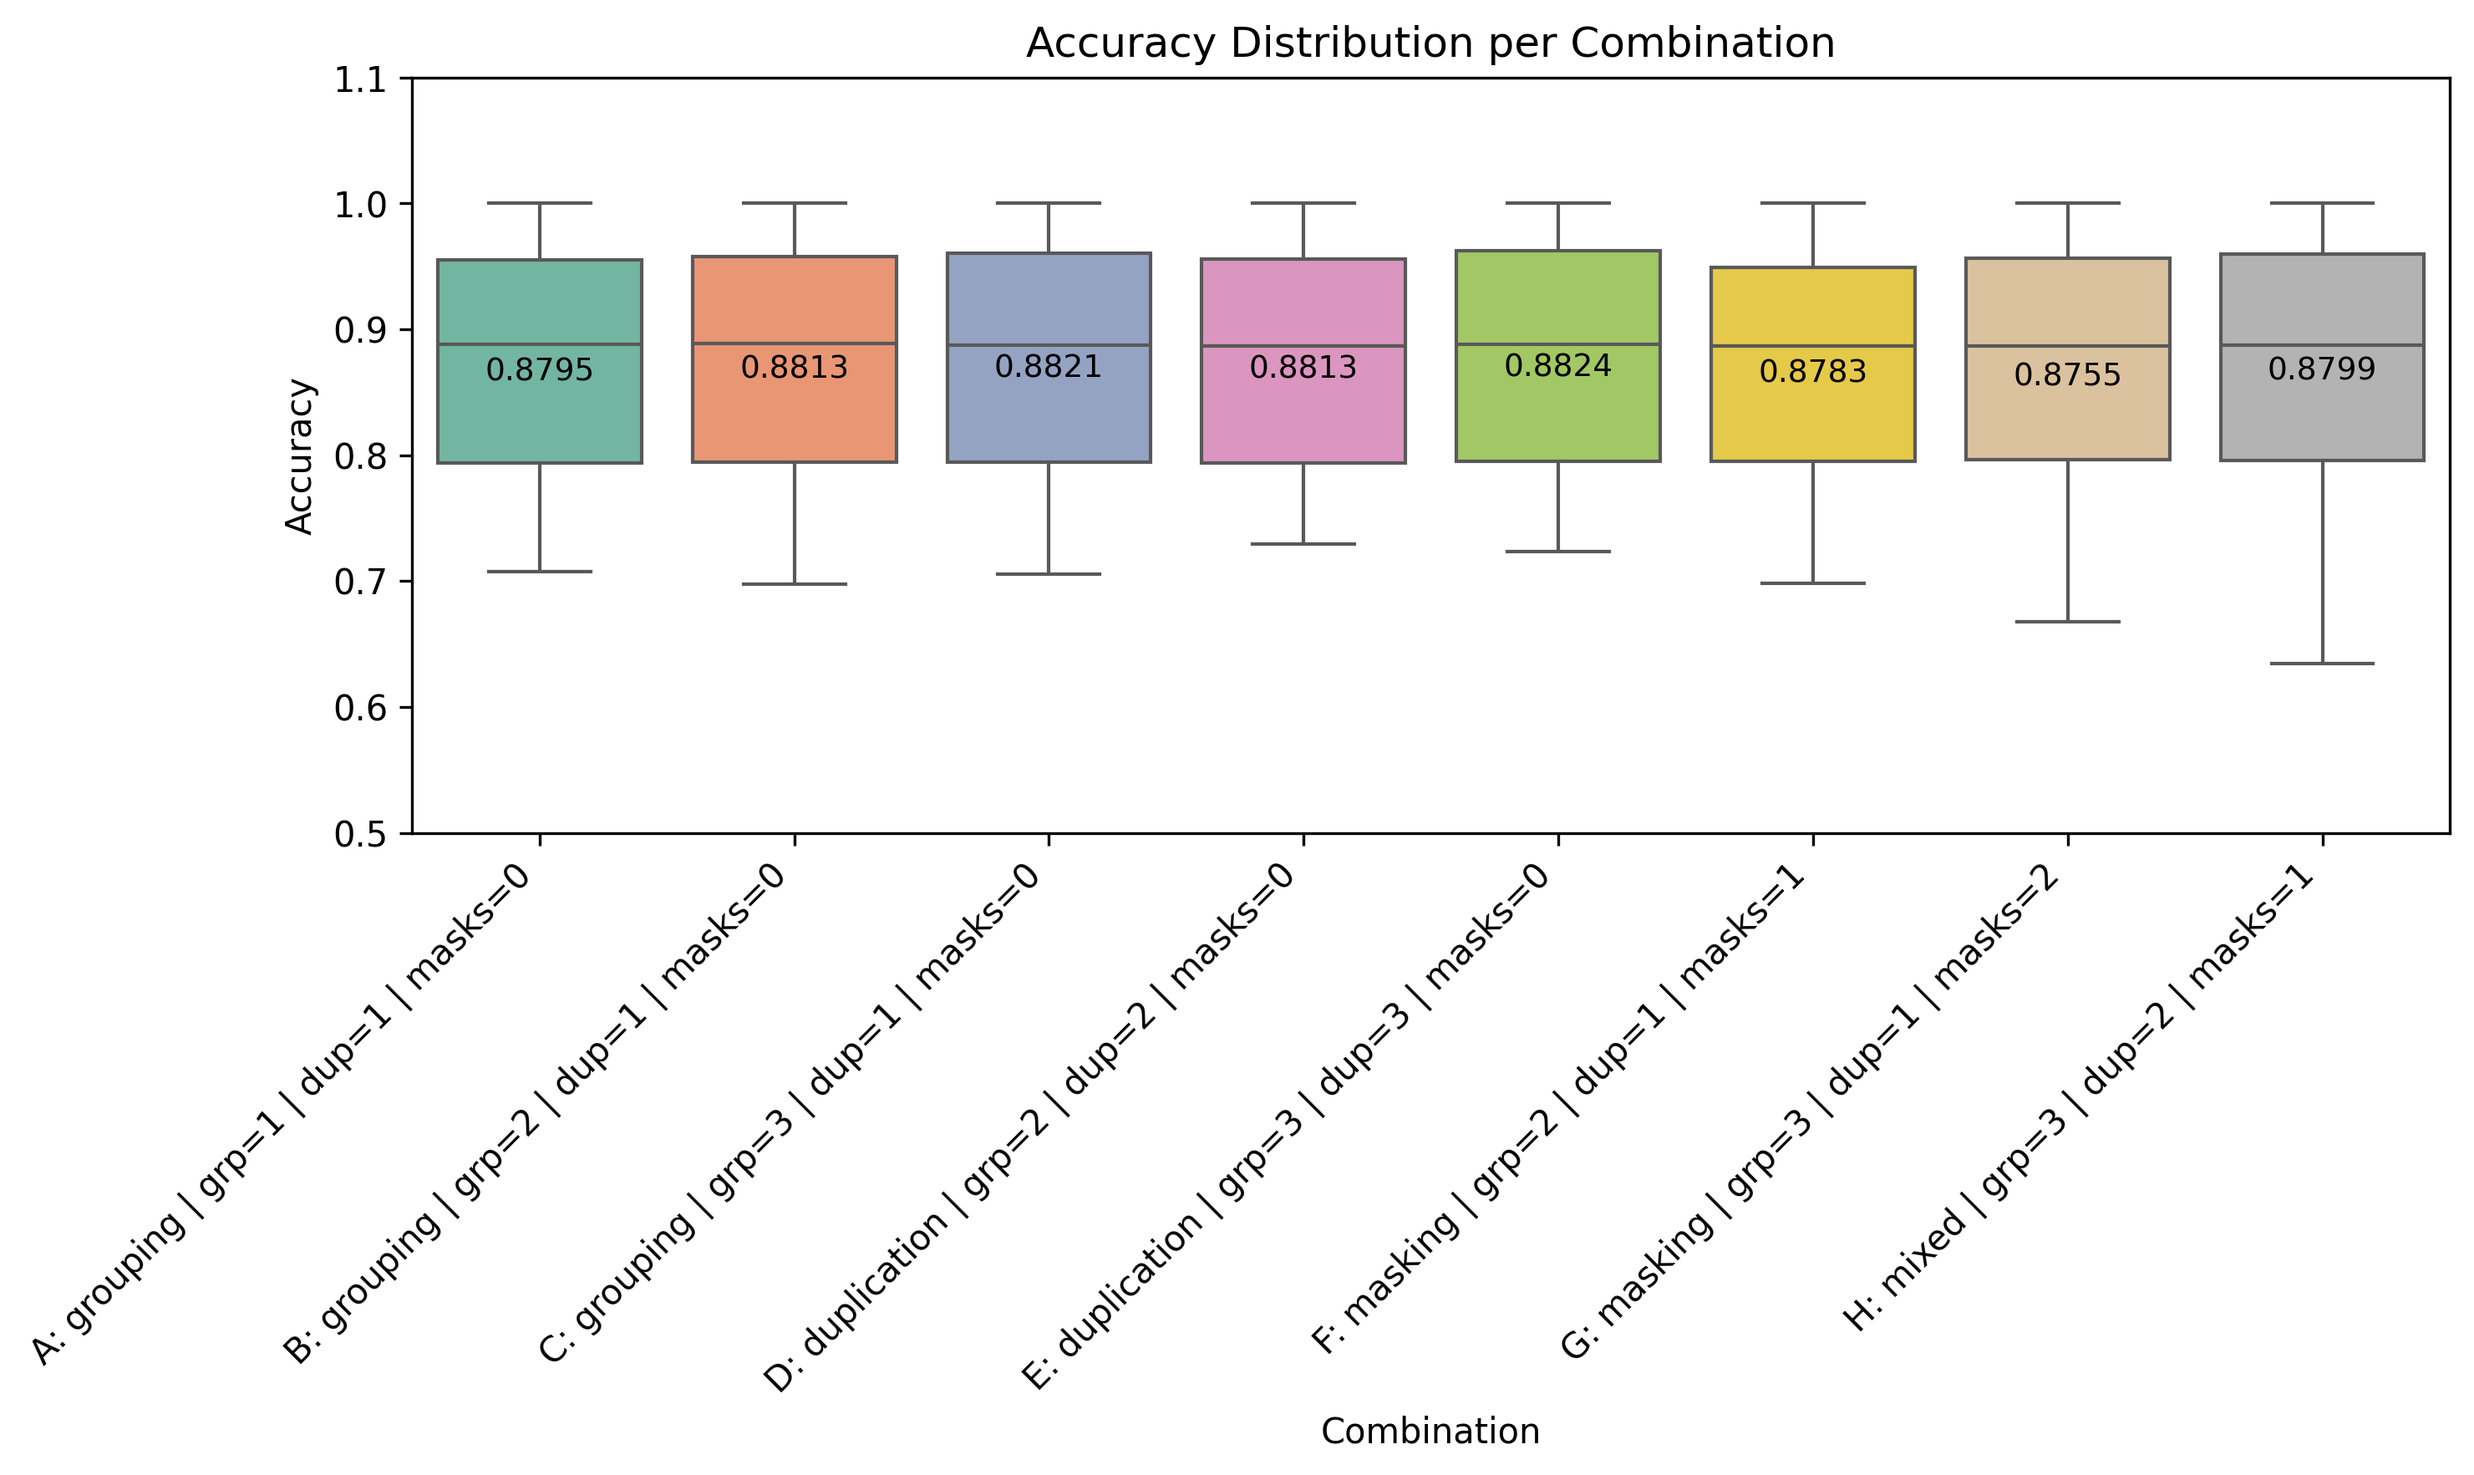
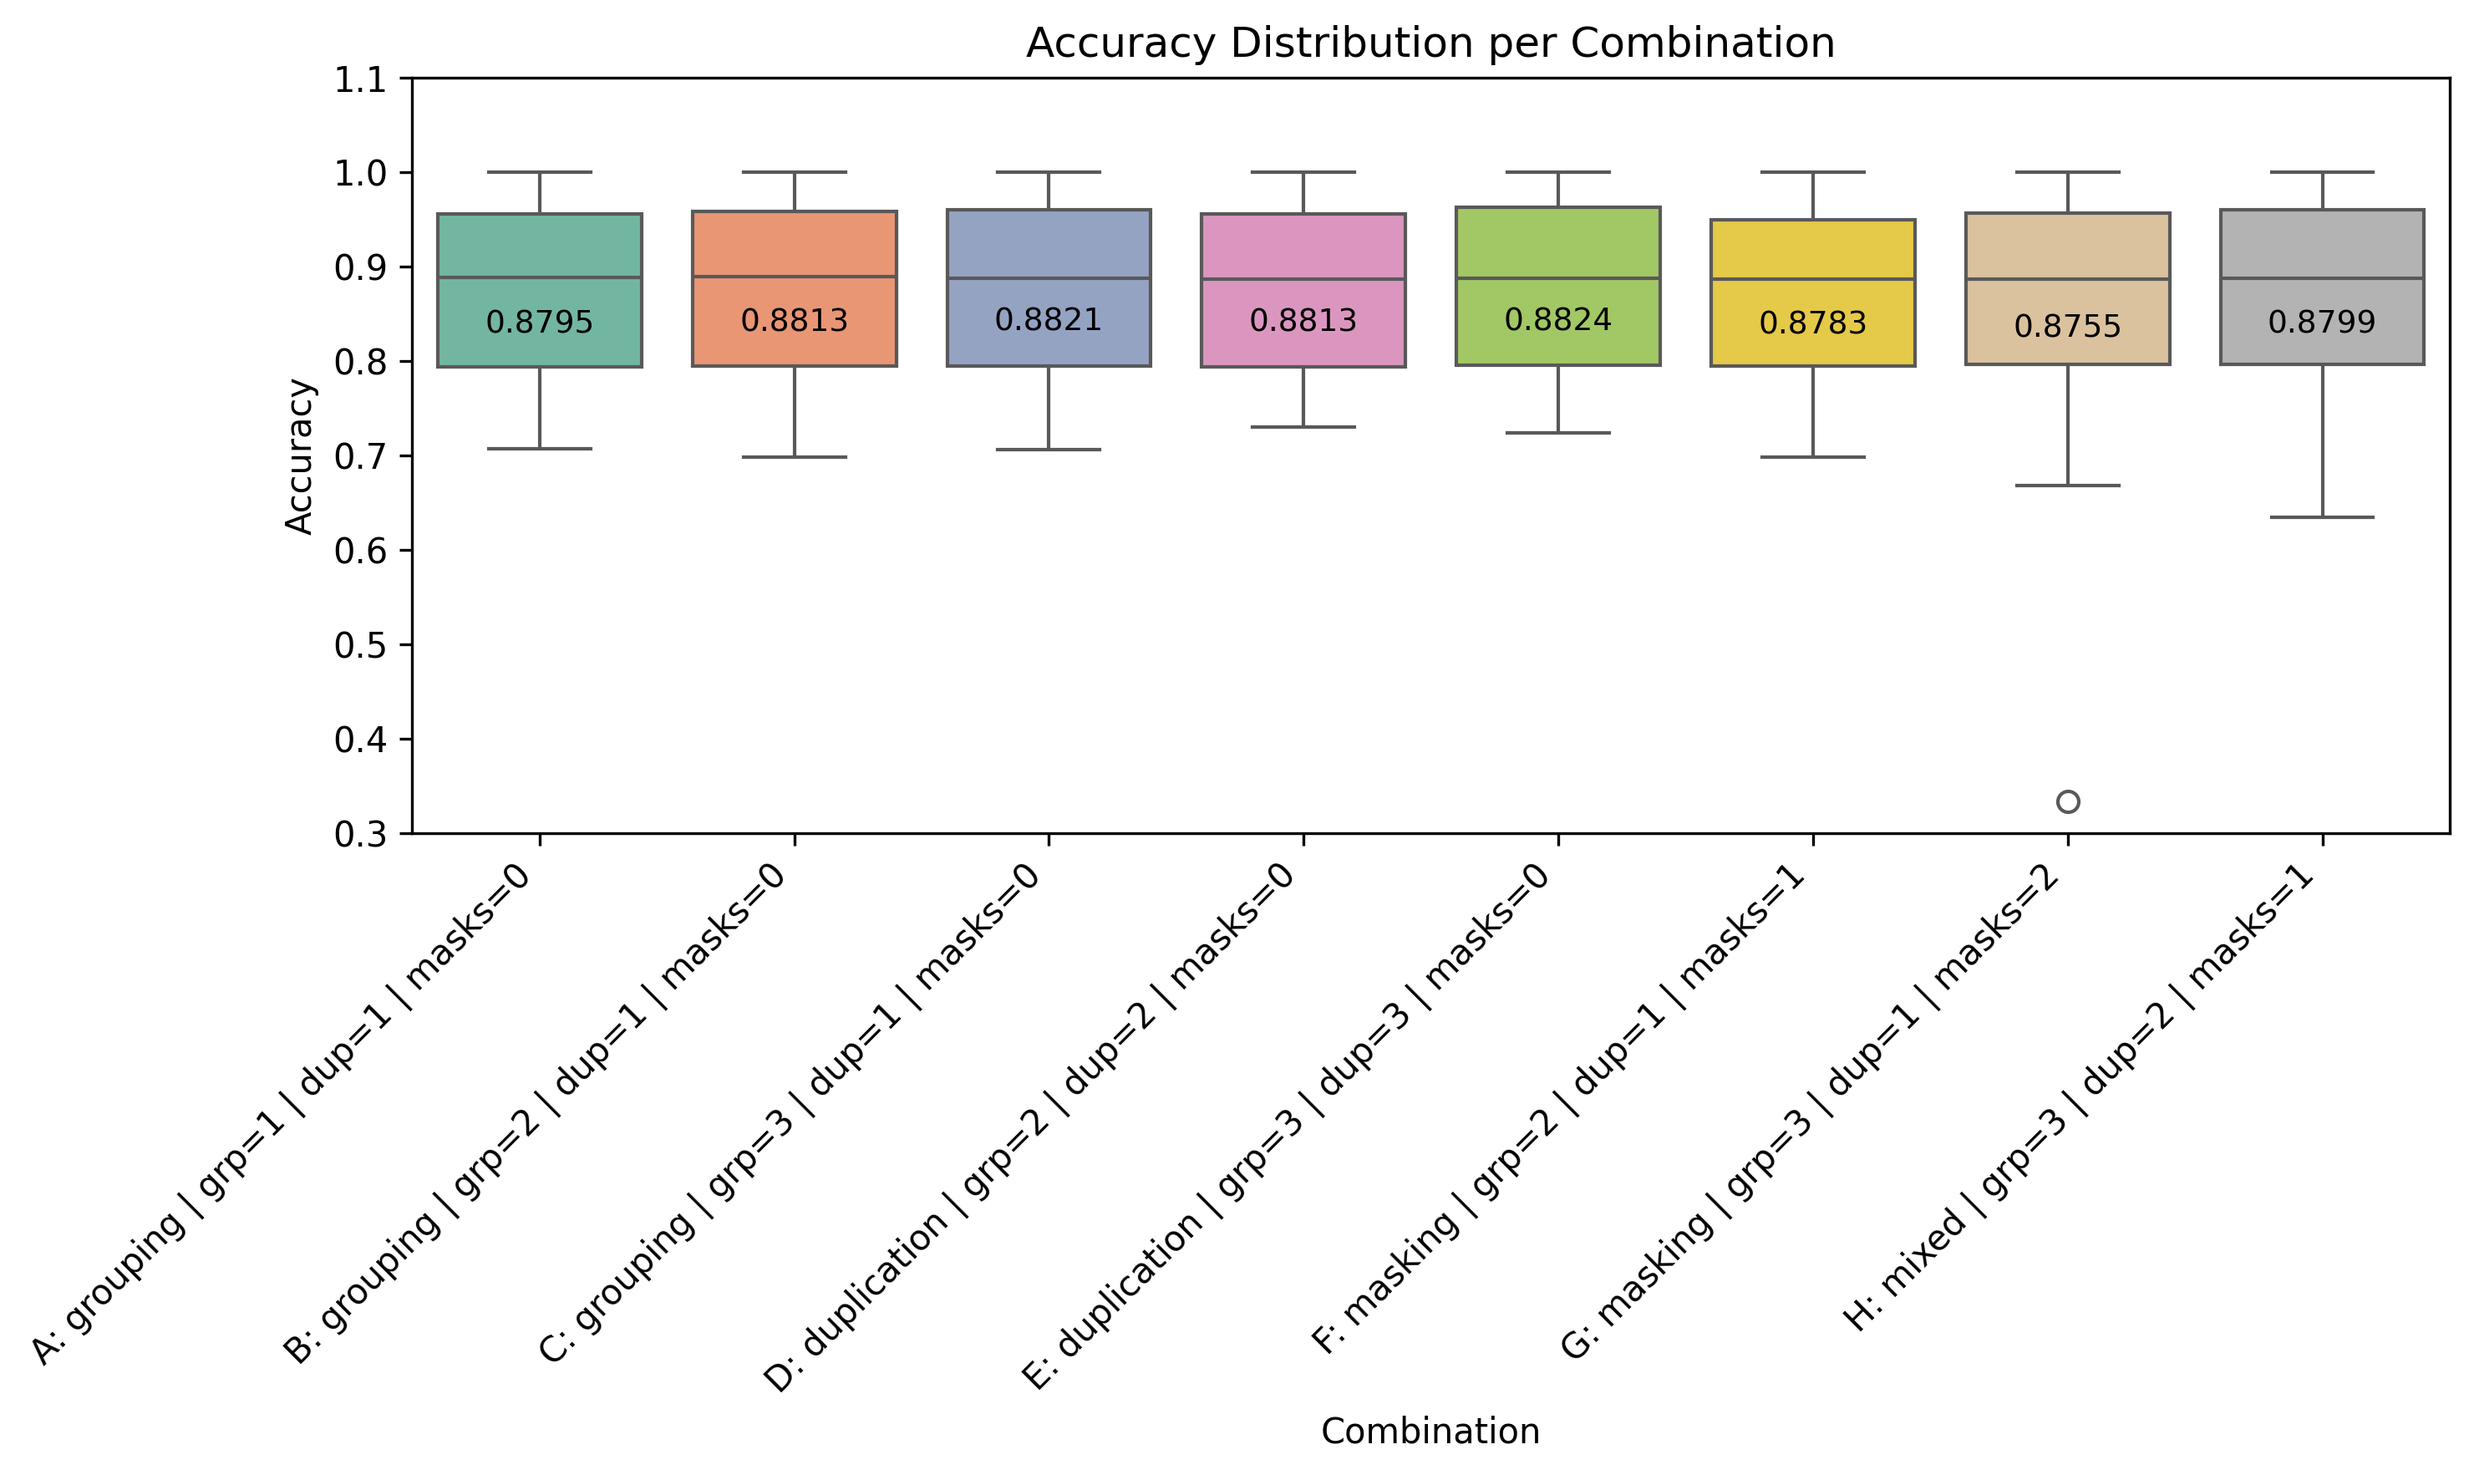
update plots

diff --git a/analysis/grouping_benchmark.py b/analysis/grouping_benchmark.py
@@ -177,7 +177,7 @@ def plot_combined_results(df, output_plot):
     ax.set_title("Accuracy Distribution per Combination")
     ax.set_xlabel("Combination")
     ax.set_ylabel("Accuracy")
-    ax.set_ylim(0.5, 1.1)
+    ax.set_ylim(0.3, 1.1)
     ax.set_xticklabels(ax.get_xticklabels(), rotation=45, ha="right")
 
     # Calculate and annotate the mean on the box plot
@@ -186,7 +186,7 @@ def plot_combined_results(df, output_plot):
         mean_value = means[label]
         ax.text(
             i,
-            mean_value - 0.02,
+            mean_value - 0.05,
             f"{mean_value:.4f}",
             horizontalalignment="center",
             color="black",
@@ -223,7 +223,7 @@ def plot_combined_auroc_results(df, output_plot):
     ax.set_title("AUROC Distribution per Combination")
     ax.set_xlabel("Combination")
     ax.set_ylabel("AUROC")
-    ax.set_ylim(0.5, 1.1)
+    ax.set_ylim(0.3, 1.1)
     ax.set_xticklabels(ax.get_xticklabels(), rotation=45, ha="right")
 
     # Calculate and annotate the mean on the box plot
@@ -232,7 +232,7 @@ def plot_combined_auroc_results(df, output_plot):
         mean_value = means[label]
         ax.text(
             i,
-            mean_value + 0.01,
+            mean_value - 0.05,
             f"{mean_value:.4f}",
             horizontalalignment="center",
             color="black",
@@ -721,6 +721,9 @@ def main(
         if generate_plot:
             plot_output = output_file.replace(".csv", "_combined_plot.png")
             plot_combined_results(final_df, plot_output)
+
+            plot_output = output_file.replace(".csv", "_combined_auroc.png")
+            plot_combined_auroc_results(final_df, plot_output)
 
         # Get all unique labels for consistent coloring
         if "combo_label" not in final_df.columns:
